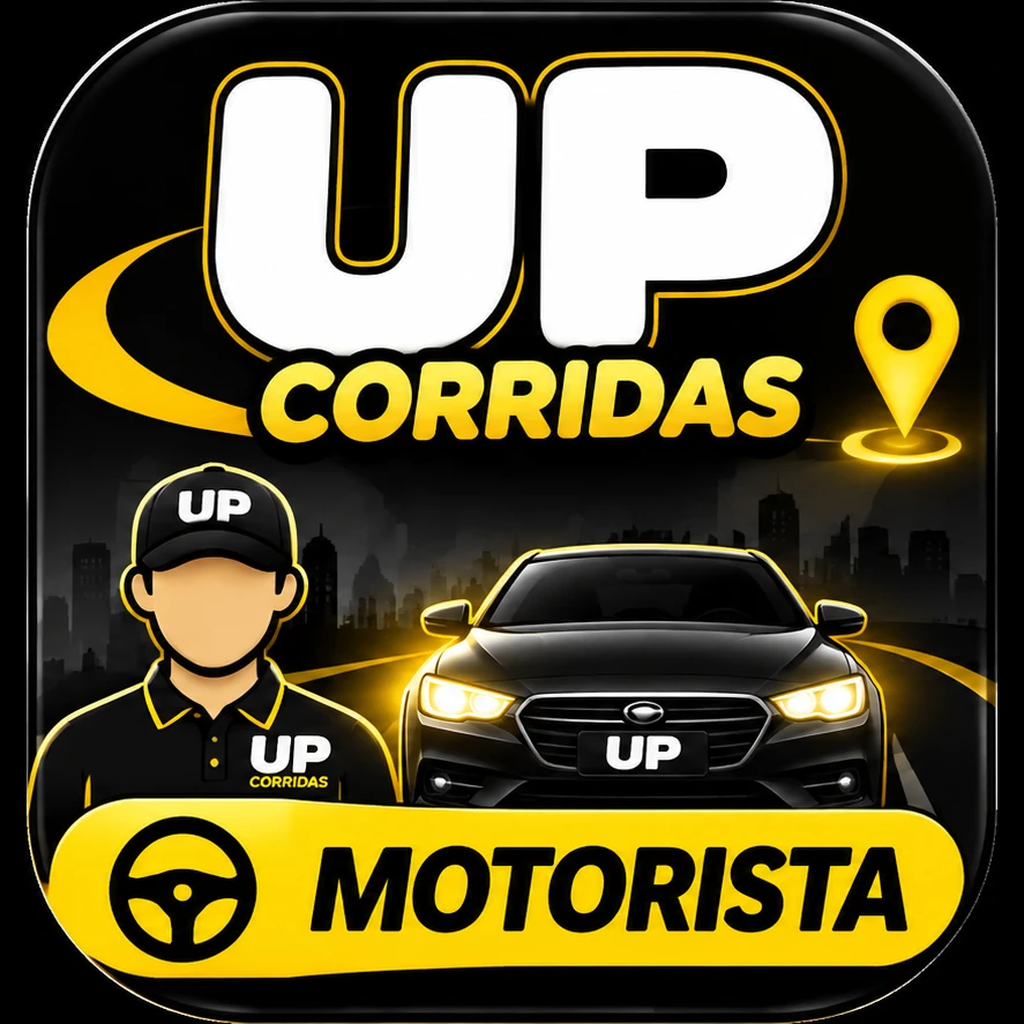
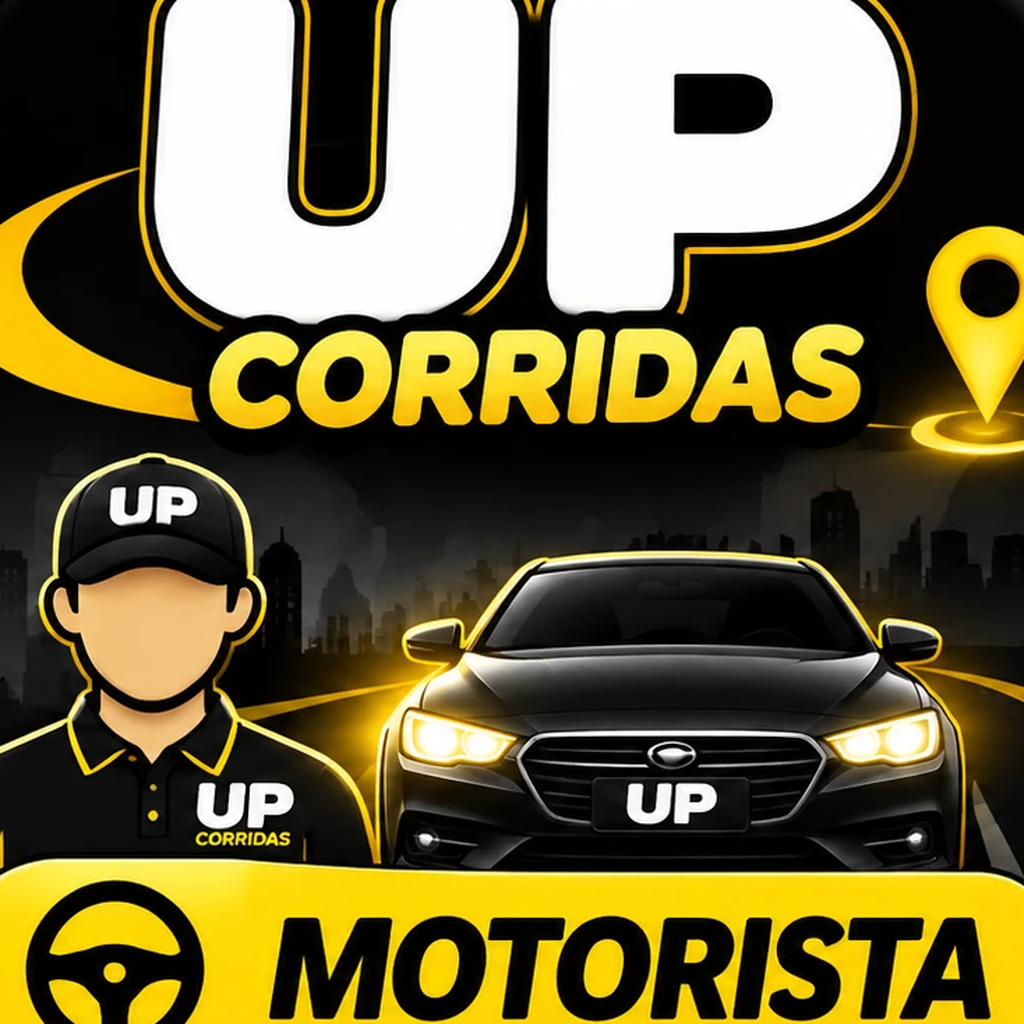
SOS gravado e distribuído, push de chamada de alta prioridade com serviço nativo, ícones sem margem, WebP nas fotos, testes painel→app e documentação

diff --git a/painel/test/apps-painel.test.ts b/painel/test/apps-painel.test.ts
@@ -432,3 +432,70 @@ test("fotos enviadas pelos apps viram WebP (qualidade 80, até 1600 px): foto de
   const m = listar(E.id, cadastroPorId("motoristas")!).find((x) => x.telefone === "11900000081")!;
   assert.equal(arquivoDoDocumento(E.id, m.id, "cnh")?.mime, "image/webp");
 });
+
+test("SOS: grava o alerta com posição, nome e telefone e avisa os motoristas por perto (não quem pediu nem quem está longe)", async () => {
+  const { alertas } = await import("../src/apps/despacho.ts");
+  const { emitir: _e } = await import("../src/apps/eventos.ts");
+  criar(E.id, cadastroPorId("motoristas")!, { nome: "Nina Pede", telefone: "11900000091", status: "Ativo", veiculo: "Hatch", placa: "NIN1A23" }, "teste");
+  criar(E.id, cadastroPorId("motoristas")!, { nome: "Otto Perto", telefone: "11900000092", status: "Ativo", veiculo: "Hatch", placa: "OTT1A23" }, "teste");
+  criar(E.id, cadastroPorId("motoristas")!, { nome: "Paulo Longe", telefone: "11900000093", status: "Ativo", veiculo: "Hatch", placa: "PAU1A23" }, "teste");
+  const tokN = await entrar("motorista", "11900000091"), tokO = await entrar("motorista", "11900000092"), tokL = await entrar("motorista", "11900000093");
+  await chamar("POST", `${API}/online`, { lat: -22.1, lng: -45.1 }, tokN);
+  await chamar("POST", `${API}/online`, { lat: -22.101, lng: -45.101 }, tokO);
+  await chamar("POST", `${API}/online`, { lat: -22.9, lng: -45.9 }, tokL);
+  const antes = alertas(E.id).length;
+  const r = await chamar("POST", `${API}/sos`, { lat: -22.1, lng: -45.1 }, tokN);
+  assert.equal(r.status, 200, JSON.stringify(r.corpo));
+  const todos = alertas(E.id);
+  assert.equal(todos.length, antes + 1);
+  const a = todos[todos.length - 1];
+  assert.equal(a.nome, "Nina Pede"); assert.equal(a.telefone, "11900000091"); assert.equal(a.papel, "motorista"); assert.equal(a.lat, -22.1);
+  assert.equal((await chamar("POST", `${API}/sos`, {}, undefined)).status, 401);
+});
+
+// ---------------------------------------------------------------------------------------------------------------------------------
+// "Mudou no painel, mudou no app": cada função do painel que afeta os apps, mudada com as mesmas funções do painel e conferida no app.
+// A tabela com o que foi testado e como está em docs/TESTE_PAINEL_APPS.md.
+
+test("painel → app: tarifa da categoria muda a estimativa; cupom criado/desativado aparece e some; documentos obrigatórios e motivos de cancelamento seguem o painel", async () => {
+  const { atualizar, listar } = await import("../src/cadastros/armazem.ts");
+  const { gerais, salvarGerais } = await import("../src/config/gerais.ts");
+  const tokP = await entrar("passageiro", "11988887001");
+  const consulta = `/estimativa?latEmbarque=-23.55&lngEmbarque=-46.63&latDestino=-23.6&lngDestino=-46.66&categoria=${encodeURIComponent("Econômico")}`;
+  const antes = (await chamar("GET", `${API}${consulta}`, undefined, tokP)).corpo;
+  assert.ok(antes.valor > 0, JSON.stringify(antes));
+  // 1) Tarifa: o valor do km sobe no painel -> a estimativa do app sobe.
+  const cat = listar(E.id, cadastroPorId("categorias")!).find((c) => c.nome === "Econômico")!;
+  atualizar(E.id, cadastroPorId("categorias")!, cat.id, { ...cat, valorKm: 4 }, "teste");
+  const depois = (await chamar("GET", `${API}${consulta}`, undefined, tokP)).corpo;
+  assert.ok(depois.valor > antes.valor, `estimativa subiu: ${antes.valor} -> ${depois.valor}`);
+  atualizar(E.id, cadastroPorId("categorias")!, cat.id, { ...cat, valorKm: 2 }, "teste");
+  // 2) Cupom: criado no painel aparece para o passageiro; desativado, some.
+  const c = criar(E.id, cadastroPorId("cupons")!, { codigo: "PAINEL10", tipoDesconto: "Percentual", valor: 10, ativo: true, automatico: false }, "teste");
+  assert.ok(((await chamar("GET", `${API}/cupons`, undefined, tokP)).corpo.cupons as Array<{ codigo: string }>).some((x) => x.codigo === "PAINEL10"), "cupom novo aparece");
+  atualizar(E.id, cadastroPorId("cupons")!, c.id, { ...c, ativo: false }, "teste");
+  assert.ok(!((await chamar("GET", `${API}/cupons`, undefined, tokP)).corpo.cupons as Array<{ codigo: string }>).some((x) => x.codigo === "PAINEL10"), "cupom desativado some");
+  // 3) Documentos obrigatórios e motivos de cancelamento vêm de Configurações > Gerais.
+  const g = gerais(E.id);
+  const docs = g.motorista.documentos.map((d) => ({ ...d, exigir: d.id === "cnh" ? true : false }));
+  salvarGerais(E.id, { ...g, motorista: { ...g.motorista, documentos: docs }, cancelamento: { ...g.cancelamento, motorista: { ...g.cancelamento.motorista, motivos: ["Motivo novo do painel", "Passageiro não apareceu"] } } });
+  const cfg = (await chamar("GET", `${API}/config`, undefined, tokP)).corpo;
+  assert.deepEqual(cfg.documentosExigidos.filter((d: any) => d.exigir).map((d: any) => d.id), ["cnh"]);
+  assert.ok(cfg.motivosCancelamento.motorista.includes("Motivo novo do painel"), "motivo novo do painel aparece no /config");
+  const tokM = await (async () => { criar(E.id, cadastroPorId("motoristas")!, { nome: "Rui Docs", telefone: "11900000101", status: "Ativo", veiculo: "Hatch", placa: "RUI1A23" }, "teste"); return entrar("motorista", "11900000101"); })();
+  assert.deepEqual((await chamar("GET", `${API}/motivos-cancelamento`, undefined, tokM)).corpo.motivos, cfg.motivosCancelamento.motorista, "o motorista vê exatamente a lista do painel");
+  assert.deepEqual((await chamar("GET", `${API}/documentos`, undefined, tokM)).corpo.obrigatorios.includes("cnh"), true);
+  salvarGerais(E.id, g); // devolve como estava
+});
+
+test("painel → app: motorista bloqueado no painel perde o acesso ao app; reativado, volta", async () => {
+  const { atualizar, listar } = await import("../src/cadastros/armazem.ts");
+  criar(E.id, cadastroPorId("motoristas")!, { nome: "Sol Suspensa", telefone: "11900000111", status: "Ativo", veiculo: "Hatch", placa: "SOL1A23" }, "teste");
+  const tokM = await entrar("motorista", "11900000111");
+  assert.equal((await chamar("GET", `${API}/estado`, undefined, tokM)).status, 200);
+  const m = listar(E.id, cadastroPorId("motoristas")!).find((x) => x.telefone === "11900000111")!;
+  atualizar(E.id, cadastroPorId("motoristas")!, m.id, { ...m, status: "Bloqueado" }, "teste");
+  assert.ok([401, 403].includes((await chamar("GET", `${API}/estado`, undefined, tokM)).status), "bloqueado: o app é barrado");
+  atualizar(E.id, cadastroPorId("motoristas")!, m.id, { ...m, status: "Ativo" }, "teste");
+  assert.equal((await chamar("GET", `${API}/estado`, undefined, tokM)).status, 200, "reativado: volta");
+});

diff --git a/painel/src/apps/despacho.ts b/painel/src/apps/despacho.ts
@@ -114,6 +114,8 @@ export const limparDespacho = () => estados.clear();
 
 const motoristas = (empresaId: string) => listar(empresaId, cadastroPorId("motoristas")!);
 const motorista = (empresaId: string, id: string) => motoristas(empresaId).find((m) => m.id === id);
+/** Nome e telefone de um motorista (para o alerta de emergência). */
+export const dadosDoMotorista = (empresaId: string, id: string) => { const m = motorista(empresaId, id); return { nome: String(m?.nome ?? ""), telefone: String(m?.telefone ?? "") }; };
 const passageiroAlvo = (c: CorridaPropria): Alvo => ({ papel: "passageiro", chave: c.passageiro.telefone });
 const motoristaAlvo = (id: string): Alvo => ({ papel: "motorista", chave: id });
 
@@ -415,7 +417,7 @@ export function despachar(empresaId: string) {
     emitir(empresaId, motoristaAlvo(melhor.id), "oferta", ofertaParaApp(empresaId, o));
     void avisar(empresaId, motoristaAlvo(melhor.id), {
       titulo: "Nova corrida", texto: `${c.embarque.texto}${o.distanciaKm != null ? ` · ${o.distanciaKm} km de você` : ""}`,
-      dados: { tipo: "oferta", ofertaId: o.id, corridaId: c.id }, canal: "corridas",
+      dados: { tipo: "oferta", ofertaId: o.id, corridaId: c.id }, canal: "corridas", somenteDados: true, // vira chamada em tela cheia pelo serviço nativo do APK
     });
     n++;
     }
@@ -845,15 +847,46 @@ export interface Alerta { id: string; corridaId: string; os: string; papel: Pape
 const arqAlertas = (empresaId: string) => arquivo(empresaId, "alertas.json");
 export const alertas = (empresaId: string) => ler<Alerta[]>(arqAlertas(empresaId), []);
 
-export function registrarSos(empresaId: string, c: CorridaPropria, papel: PapelApp, lat?: number, lng?: number): Alerta {
+/** Raio (km) em que os outros motoristas online recebem o alerta de emergência. */
+export const RAIO_SOS_KM = 5;
+
+/**
+ * Pedido de ajuda (botão de pânico). Grava o alerta (OS, posição, quem é e o telefone) para o painel e avisa na hora os motoristas online
+ * por perto (tempo real + push de alta prioridade). `c` é a corrida, quando há; o pedido de ajuda do mapa (sem corrida) passa `null`.
+ */
+export function registrarSos(empresaId: string, c: CorridaPropria | null, papel: PapelApp, lat?: number, lng?: number, quem?: { id: string; nome: string; telefone: string }): Alerta {
   const a: Alerta = {
-    id: crypto.randomUUID(), corridaId: c.id, os: c.os, papel,
-    nome: papel === "passageiro" ? c.passageiro.nome : c.motorista, telefone: papel === "passageiro" ? c.passageiro.telefone : c.telefoneMotorista,
+    id: crypto.randomUUID(), corridaId: c?.id ?? "", os: c?.os ?? "", papel,
+    nome: quem?.nome ?? (c ? (papel === "passageiro" ? c.passageiro.nome : c.motorista) : ""), telefone: quem?.telefone ?? (c ? (papel === "passageiro" ? c.passageiro.telefone : c.telefoneMotorista) : ""),
     lat: lat ?? null, lng: lng ?? null, em: new Date().toISOString(), resolvido: false, resolvidoPor: "",
   };
   gravar(arqAlertas(empresaId), [...alertas(empresaId).slice(-999), a]);
-  console.warn(`[apps] SOS na empresa ${empresaId}, OS ${c.os} (${papel})`);
+  console.warn(`[apps] SOS na empresa ${empresaId}, OS ${a.os || "—"} (${papel})`);
+  void distribuirSos(empresaId, a, quem?.id);
   return a;
+}
+
+/** Avisa os motoristas online dentro de RAIO_SOS_KM (menos quem pediu) e, quando a corrida tem motorista, ele também. Nunca lança erro. */
+async function distribuirSos(empresaId: string, a: Alerta, excluirId?: string) {
+  try {
+    const e = estado(empresaId);
+    const c = a.corridaId ? listarProprias(empresaId).find((x) => x.id === a.corridaId) : undefined;
+    const alvos = new Map<string, number | null>();
+    for (const [id, p] of e.online) {
+      if (id === excluirId) continue;
+      const km = a.lat != null && a.lng != null ? linhaReta({ lat: p.lat, lng: p.lng }, { lat: a.lat, lng: a.lng }) : null;
+      if (km != null && km <= RAIO_SOS_KM) alvos.set(id, arred(km, 1));
+    }
+    if (c?.motoristaId && c.motoristaId !== excluirId && !alvos.has(c.motoristaId)) alvos.set(c.motoristaId, null);
+    for (const [id, km] of alvos) {
+      const dados = { id: a.id, nome: a.nome, papel: a.papel, os: a.os, lat: a.lat, lng: a.lng, km };
+      emitir(empresaId, motoristaAlvo(id), "sos", dados);
+      void avisar(empresaId, motoristaAlvo(id), {
+        titulo: "ALERTA DE EMERGÊNCIA", texto: `${a.nome || "Um colega"} pediu ajuda${km != null ? ` a ${km.toString().replace(".", ",")} km de você` : ""}. Se puder, ajude e avise a central.`,
+        dados: { tipo: "sos", alertaId: a.id }, canal: "corridas",
+      });
+    }
+  } catch (err) { console.error("[apps] distribuir SOS:", err instanceof Error ? err.message : err); }
 }
 
 export function resolverAlerta(empresaId: string, id: string, por: string) {

diff --git a/painel/src/apps/push.ts b/painel/src/apps/push.ts
@@ -72,7 +72,14 @@ async function tokenDeAcesso(conta: ContaServico): Promise<string> {
 
 // ------------------------------------------------------------------ envio
 
-export interface Aviso { titulo: string; texto: string; dados?: Record<string, string>; canal?: "corridas" | "chat" | "geral" | "chegada" }
+export interface Aviso {
+  titulo: string; texto: string; dados?: Record<string, string>; canal?: "corridas" | "chat" | "geral" | "chegada";
+  /**
+   * Mensagem só de dados, com prioridade alta (chamada de corrida): chega mesmo com o app fechado ou em repouso e o aplicativo (serviço nativo)
+   * mostra a chamada em tela cheia, com som e a tela acordando. Sem isto o Android só mostra uma notificação comum.
+   */
+  somenteDados?: boolean;
+}
 
 /** Manda push para todos os aparelhos da pessoa. Nunca lança erro: push é um extra. Devolve quantos foram aceitos. */
 export async function avisar(empresaId: string, alvo: Alvo, aviso: Aviso): Promise<number> {
@@ -88,9 +95,13 @@ export async function avisar(empresaId: string, alvo: Alvo, aviso: Aviso): Promi
         method: "POST", headers: { authorization: `Bearer ${acesso}`, "content-type": "application/json" },
         body: JSON.stringify({ message: {
           token: t.token,
-          notification: { title: aviso.titulo.slice(0, 80), body: aviso.texto.slice(0, 200) },
-          data: aviso.dados ?? {},
-          android: { priority: "high", notification: { channel_id: aviso.canal ?? "geral", sound: "default" } },
+          ...(aviso.somenteDados
+            ? { data: { ...(aviso.dados ?? {}), titulo: aviso.titulo.slice(0, 80), texto: aviso.texto.slice(0, 200) }, android: { priority: "high", ttl: "45s" } }
+            : {
+              notification: { title: aviso.titulo.slice(0, 80), body: aviso.texto.slice(0, 200) },
+              data: aviso.dados ?? {},
+              android: { priority: "high", notification: { channel_id: aviso.canal ?? "geral", sound: "default" } },
+            }),
         } }),
       });
       if (r.ok) ok++;

diff --git a/painel/src/apps/web/motorista/App.tsx b/painel/src/apps/web/motorista/App.tsx
@@ -89,6 +89,7 @@ function Logado({ marca, sair }: { marca: MarcaApp; sair: () => void }) {
   // Tempo real.
   useEffect(() => tempoReal((tipo, d) => {
     if (tipo === "oferta") { if (document.visibilityState === "hidden") void permissoesNativas.ofertaTelaCheia("Nova corrida", "Toque para ver a chamada"); setOferta(d as Oferta); setErroOferta(""); if (!ajustes.insistente) { tocarAlerta(4); } if (ajustes.vibrar) vibrar([400, 200, 400, 200, 400]); }
+    else if (tipo === "sos") { tocarAlerta(3, "alerta"); vibrar([500, 200, 500, 200, 500]); setAviso(`ALERTA DE EMERGÊNCIA: ${String(d.nome || "um colega")} pediu ajuda${d.km != null ? ` a ${String(d.km).replace(".", ",")} km de você` : ""}.`); }
     else if (tipo === "oferta_encerrada") { setOferta((o) => (o?.id === d.id ? null : o)); pararSons(); if (d.motivo) setAviso(String(d.motivo)); }
     else if (tipo === "corrida") {
       const c = d as Corrida;
@@ -159,7 +160,7 @@ function Logado({ marca, sair }: { marca: MarcaApp; sair: () => void }) {
   };
   const pedirAjuda = async () => {
     setDialogo("");
-    try { await api("/suporte", { corpo: { texto: `ALERTA: o motorista pediu ajuda${posicao ? ` (posição ${posicao.lat.toFixed(5)}, ${posicao.lng.toFixed(5)})` : ""}.` } }); setAviso("A central recebeu o seu alerta e vai falar com você. Se for grave, ligue 190."); } catch (e) { setErro(mensagemDeErro(e)); }
+    try { await api("/sos", { corpo: posicao ?? {} }); setAviso("Alerta enviado: a central e os motoristas por perto foram avisados. Se for grave, ligue 190."); } catch (e) { setErro(mensagemDeErro(e)); }
   };
   const ficarOffline = async () => { setDialogo(""); setFolhaAberta(false); await api("/offline", { corpo: {} }).catch(() => undefined); setOnline(false); };
   const sairDaConta = async () => { await api("/sair", { corpo: {} }).catch(() => undefined); setOnline(false); window.dispatchEvent(new Event("app-sair")); sair(); };

diff --git a/painel/src/apps/rotas.ts b/painel/src/apps/rotas.ts
@@ -390,7 +390,15 @@ r.post("/corridas/:id/status", so("motorista"), ok(async (req, res) => {
 r.post("/corridas/:id/sos", ok((req, res) => {
   const { empresaId, sessao } = ctx(req);
   const c = P.corridaDoApp(empresaId, req.params.id, sessao.papel, sessao.chave);
-  res.json({ alerta: P.registrarSos(empresaId, c, sessao.papel, num(req.body?.lat), num(req.body?.lng)) });
+  const quem = sessao.papel === "motorista" ? { id: sessao.chave, nome: c.motorista, telefone: c.telefoneMotorista } : undefined;
+  res.json({ alerta: P.registrarSos(empresaId, c, sessao.papel, num(req.body?.lat), num(req.body?.lng), quem) });
+}));
+
+/** Pedido de ajuda sem corrida (botão vermelho do mapa do motorista): grava o alerta e avisa quem está por perto. */
+r.post("/sos", so("motorista"), ok((req, res) => {
+  const { empresaId, sessao } = ctx(req);
+  const eu = P.dadosDoMotorista(empresaId, sessao.chave);
+  res.json({ alerta: P.registrarSos(empresaId, null, "motorista", num(req.body?.lat), num(req.body?.lng), { id: sessao.chave, nome: eu.nome, telefone: eu.telefone }) });
 }));
 
 // ------------------------------------------------------------------ chat

diff --git a/painel/test/apps-v2.test.ts b/painel/test/apps-v2.test.ts
@@ -181,7 +181,7 @@ test("motorista novo: cadastro em análise, completa os passos, só fica online 
 
   // Passo 2: foto do rosto (e ela só abre para a própria pessoa).
   assert.match((await chamar("POST", `${API}/foto`, new Uint8Array([1, 2, 3, 4]), tokNovo, { "content-type": "image/png" })).corpo.erro, /não é uma foto/);
-  assert.match((await chamar("POST", `${API}/foto`, PNG(), tokNovo, { "content-type": "image/gif" })).corpo.erro, /JPG ou PNG/);
+  assert.match((await chamar("POST", `${API}/foto`, PNG(), tokNovo, { "content-type": "image/gif" })).corpo.erro, /JPG, PNG ou WEBP/);
   const f = await chamar("POST", `${API}/foto`, PNG(), tokNovo, { "content-type": "image/png" });
   assert.equal(f.status, 200); assert.equal(f.corpo.foto, `${API}/foto/motorista/${idNovo}`);
   assert.equal((await chamar("GET", f.corpo.foto, undefined, tokNovo)).status, 200);

diff --git a/scripts/nativo/OfertaTelaCheia.java b/scripts/nativo/OfertaTelaCheia.java
@@ -1,0 +1,50 @@
+package __PACOTE__;
+
+import android.app.Notification;
+import android.app.NotificationChannel;
+import android.app.NotificationManager;
+import android.app.PendingIntent;
+import android.content.Context;
+import android.content.Intent;
+import android.os.Build;
+import android.os.PowerManager;
+import android.provider.Settings;
+
+/**
+ * Chamada de corrida (ou alerta) por cima de tudo: acorda a tela, sobe uma notificação de chamada com tela cheia (full-screen intent)
+ * e, com "Exibir sobre outros apps" liberado, traz o app para a frente. Usado pelo app aberto/minimizado (plugin Flutuante) e pelo
+ * serviço de push (OfertaMessagingService), que funciona com o app fechado.
+ */
+public final class OfertaTelaCheia {
+    private OfertaTelaCheia() { }
+
+    public static void mostrar(Context c, String titulo, String texto) {
+        try {
+            PowerManager pm = (PowerManager) c.getSystemService(Context.POWER_SERVICE);
+            if (pm != null) {
+                @SuppressWarnings("deprecation")
+                PowerManager.WakeLock w = pm.newWakeLock(PowerManager.SCREEN_BRIGHT_WAKE_LOCK | PowerManager.ACQUIRE_CAUSES_WAKEUP | PowerManager.ON_AFTER_RELEASE, c.getPackageName() + ":oferta");
+                w.acquire(15000);
+            }
+            Intent abrir = c.getPackageManager().getLaunchIntentForPackage(c.getPackageName());
+            if (abrir == null) return;
+            abrir.addFlags(Intent.FLAG_ACTIVITY_NEW_TASK | Intent.FLAG_ACTIVITY_SINGLE_TOP | Intent.FLAG_ACTIVITY_REORDER_TO_FRONT);
+            PendingIntent pi = PendingIntent.getActivity(c, 7, abrir, PendingIntent.FLAG_IMMUTABLE | PendingIntent.FLAG_UPDATE_CURRENT);
+            NotificationManager nm = (NotificationManager) c.getSystemService(Context.NOTIFICATION_SERVICE);
+            if (Build.VERSION.SDK_INT >= Build.VERSION_CODES.O && nm.getNotificationChannel("oferta") == null) {
+                NotificationChannel canal = new NotificationChannel("oferta", "Chamada de corrida", NotificationManager.IMPORTANCE_HIGH);
+                canal.setLockscreenVisibility(Notification.VISIBILITY_PUBLIC);
+                canal.enableVibration(true);
+                nm.createNotificationChannel(canal);
+            }
+            Notification.Builder b = Build.VERSION.SDK_INT >= Build.VERSION_CODES.O ? new Notification.Builder(c, "oferta") : new Notification.Builder(c);
+            b.setContentTitle(titulo).setContentText(texto).setSmallIcon(c.getApplicationInfo().icon)
+                .setCategory(Notification.CATEGORY_CALL).setPriority(Notification.PRIORITY_MAX)
+                .setAutoCancel(true).setContentIntent(pi).setFullScreenIntent(pi, true).setVisibility(Notification.VISIBILITY_PUBLIC);
+            nm.notify(4712, b.build());
+            if (Settings.canDrawOverlays(c)) c.startActivity(abrir); // com "exibir sobre outros apps" o sistema deixa abrir direto
+        } catch (Exception e) {
+            // o sistema recusou: a notificação continua avisando
+        }
+    }
+}

diff --git a/scripts/nativo/FlutuantePlugin.java b/scripts/nativo/FlutuantePlugin.java
@@ -212,37 +212,7 @@ public class FlutuantePlugin extends Plugin {
      */
     @PluginMethod
     public void ofertaTelaCheia(PluginCall call) {
-        Context c = getContext();
-        String titulo = call.getString("titulo", "Nova corrida");
-        String texto = call.getString("texto", "Toque para ver a chamada");
-        try {
-            PowerManager pm = (PowerManager) c.getSystemService(Context.POWER_SERVICE);
-            if (pm != null) {
-                @SuppressWarnings("deprecation")
-                PowerManager.WakeLock w = pm.newWakeLock(PowerManager.SCREEN_BRIGHT_WAKE_LOCK | PowerManager.ACQUIRE_CAUSES_WAKEUP | PowerManager.ON_AFTER_RELEASE, c.getPackageName() + ":oferta");
-                w.acquire(15000);
-            }
-            Intent abrir = c.getPackageManager().getLaunchIntentForPackage(c.getPackageName());
-            if (abrir != null) {
-                abrir.addFlags(Intent.FLAG_ACTIVITY_NEW_TASK | Intent.FLAG_ACTIVITY_SINGLE_TOP | Intent.FLAG_ACTIVITY_REORDER_TO_FRONT);
-                PendingIntent pi = PendingIntent.getActivity(c, 7, abrir, PendingIntent.FLAG_IMMUTABLE | PendingIntent.FLAG_UPDATE_CURRENT);
-                NotificationManager nm = (NotificationManager) c.getSystemService(Context.NOTIFICATION_SERVICE);
-                if (Build.VERSION.SDK_INT >= Build.VERSION_CODES.O && nm.getNotificationChannel("oferta") == null) {
-                    NotificationChannel canal = new NotificationChannel("oferta", "Chamada de corrida", NotificationManager.IMPORTANCE_HIGH);
-                    canal.setLockscreenVisibility(Notification.VISIBILITY_PUBLIC);
-                    canal.enableVibration(true);
-                    nm.createNotificationChannel(canal);
-                }
-                Notification.Builder b = Build.VERSION.SDK_INT >= Build.VERSION_CODES.O ? new Notification.Builder(c, "oferta") : new Notification.Builder(c);
-                b.setContentTitle(titulo).setContentText(texto).setSmallIcon(c.getApplicationInfo().icon)
-                    .setCategory(Notification.CATEGORY_CALL).setPriority(Notification.PRIORITY_MAX)
-                    .setAutoCancel(true).setContentIntent(pi).setFullScreenIntent(pi, true).setVisibility(Notification.VISIBILITY_PUBLIC);
-                nm.notify(4712, b.build());
-                if (Settings.canDrawOverlays(c)) c.startActivity(abrir); // com "exibir sobre outros apps" o sistema deixa abrir direto, por cima do que estiver aberto
-            }
-        } catch (Exception e) {
-            // o sistema recusou: a notificação (ou o próprio app aberto) continua avisando
-        }
+        OfertaTelaCheia.mostrar(getContext(), call.getString("titulo", "Nova corrida"), call.getString("texto", "Toque para ver a chamada"));
         call.resolve();
     }
 

diff --git a/scripts/nativo/OfertaMessagingService.java b/scripts/nativo/OfertaMessagingService.java
@@ -1,0 +1,35 @@
+package __PACOTE__;
+
+import android.content.Context;
+import android.content.SharedPreferences;
+
+import com.google.firebase.messaging.FirebaseMessagingService;
+import com.google.firebase.messaging.RemoteMessage;
+
+import java.util.Map;
+
+/**
+ * Recebe o push de ALTA PRIORIDADE só de dados mesmo com o app fechado ou em repouso (Doze) e transforma em chamada de corrida em tela
+ * cheia (OfertaTelaCheia). Só entra no APK quando a empresa tem Firebase configurado (build-app-proprio.mjs).
+ * Mensagens de outros tipos (notificação comum) são mostradas pelo próprio sistema quando o app está fechado.
+ */
+public class OfertaMessagingService extends FirebaseMessagingService {
+    @Override
+    public void onMessageReceived(RemoteMessage mensagem) {
+        Map<String, String> d = mensagem.getData();
+        if (d == null) return;
+        String tipo = d.get("tipo");
+        if ("oferta".equals(tipo) || "sos".equals(tipo)) {
+            String titulo = d.get("titulo");
+            String texto = d.get("texto");
+            OfertaTelaCheia.mostrar(getApplicationContext(), titulo == null ? "Nova corrida" : titulo, texto == null ? "Toque para ver a chamada" : texto);
+        }
+    }
+
+    /** Token novo do aparelho: guarda; o app registra de novo no servidor na próxima abertura. */
+    @Override
+    public void onNewToken(String token) {
+        SharedPreferences sp = getSharedPreferences("flutuante", Context.MODE_PRIVATE);
+        sp.edit().putString("tokenNovo", token).apply();
+    }
+}

diff --git a/docs/TESTE_PAINEL_APPS.md b/docs/TESTE_PAINEL_APPS.md
@@ -1,0 +1,36 @@
+# Funções do painel que afetam os apps: o que foi testado (20/11/2026)
+
+Cada linha: o que se muda no painel, o efeito esperado no app, como foi testado e o resultado. "Teste automático" = chama as mesmas funções que o painel usa e confere a resposta que o app recebe (arquivos em `painel/test/`). **Nada disto foi conferido abrindo o painel e o app lado a lado num aparelho.** As linhas "não testado" ficam como pendência declarada, não como aprovadas.
+
+| Função do painel | Efeito esperado no app | Testado como | Resultado |
+|---|---|---|---|
+| Categorias: tarifa (valor do km) | A estimativa do passageiro muda na hora | `apps-painel.test.ts` "tarifa da categoria muda a estimativa" (km de R$ 2 para R$ 4 e volta) | Passou |
+| Categorias: tarifa dinâmica | Estimativa com acréscimo | Não testado de ponta a ponta (existe `dinamica-campos.test.ts`, só do cadastro) | Pendente |
+| Taxas da central (motorista e passageiro) | Extrato do motorista lista cada taxa; detalhe do passageiro mostra a taxa e o total pago | `apps-painel.test.ts` "taxas da central" (inclui mudar a taxa e ver o extrato mudar; bruto − taxas = líquido) | Passou |
+| Despacho: proximidade, primeiro a aceitar (geral), fila virtual, limite de motoristas, tentativas, pendência, vários carros | Quem recebe a chamada, quando e quantos | `apps-despacho.test.ts` (10 testes) e `despacho-varios-carros.test.ts` | Passou |
+| Despacho: raio e tempo de tela | Distância máxima da chamada e segundos para aceitar | Coberto parcialmente em `apps-despacho.test.ts` (variáveis de teste); o campo do painel em si não foi mudado | Parcial |
+| Documentos obrigatórios (Gerais › Motorista) | App lista os obrigatórios, bloqueia a conclusão do cadastro sem eles | `apps-painel.test.ts` (lista do `/config` e `/documentos` seguem o painel) e os testes de cadastro da sessão do painel (`/cadastro/concluir`) | Passou |
+| Formas de pagamento | Lista de pagamentos oferecida ao passageiro | Não testado (o `/config` expõe `formasDePagamento`; falta mudar no painel e conferir) | Pendente |
+| Cupons | Cupom criado aparece para o passageiro; desativado, some | `apps-painel.test.ts` "cupom criado/desativado" | Passou |
+| Passe Livre | Passageiro/motorista com passe sem taxa | Não testado | Pendente |
+| Carteira: recarga | Depósito confirmado pela central entra no saldo e no extrato do app e aparece em Recargas | `apps-painel.test.ts` "recarga de saldo do motorista" | Passou |
+| Carteira: saque | Pedido do app aparece para a central; resolvido, o app mostra a situação | `apps-extras.test.ts` (saques) | Passou (teste da fase anterior) |
+| Personalização (cores, marca, veículo no mapa, recursos, ícone do topo) | Apps leem `/personalizacao` e aplicam sem APK novo | `personalizacao-app.test.ts` (servidor, sessão do painel). Lado do app: leitura ao entrar, a cada 60 s e ao voltar; o motorista usa cor, nome e logo do topo | Servidor: passou. Visual no app: visto só no navegador (início do passageiro e do motorista) |
+| Termos de uso | Aparecem conforme o modo configurado | `apps-v2.test.ts` (termos) | Passou (teste da fase anterior) |
+| Avisos e notificações, CRM push | Aviso chega ao app com o app aberto (tempo real) e, com Firebase, com o app fechado | Tempo real: `apps-despacho/extras`. Push: só com Firebase da empresa (hoje **não configurado**: o APK sai sem o plugin de push) | Push real: não testável sem Firebase |
+| Bloqueio de motorista (status Bloqueado) e reativação | O app é barrado e volta ao reativar | `apps-painel.test.ts` "motorista bloqueado no painel perde o acesso" | Passou |
+| Punições | Motorista punido não recebe corrida | `apps-extras.test.ts` (bloqueios) | Passou (fase anterior); não repeti |
+| Áreas e cerca eletrônica | Corrida fora da área / motorista fora da cerca | Não testado | Pendente |
+| Agendamento | Corrida agendada só é oferecida perto da hora | `apps-extras.test.ts` | Passou (fase anterior) |
+| Motivos de cancelamento | Listas de motivos do app vêm do painel; "passageiro não apareceu" cancela de vez | `apps-painel.test.ts` (lista igual à do painel; no-show) | Passou |
+| Preferências de corrida (exigências) | Opções que o passageiro pede e o motorista filtra | `apps-extras.test.ts`, `apps-v2.test.ts` | Passou (fase anterior) |
+| SOS | Alerta gravado com posição, nome e telefone, e aviso aos motoristas por perto | `apps-painel.test.ts` "SOS" (gravação e permissão); aviso em tempo real aos vizinhos: não conferi a chegada ao outro app | Gravação: passou. Entrega aos vizinhos e push: pendente |
+| Gravação das corridas | Motorista envia, só a central abre, retenção automática | `apps-painel.test.ts` "gravação da corrida" | Passou |
+| Fotos e documentos em WebP | Tudo que entra pelos apps e pelo painel fica em WebP (qualidade 80, até 1600 px) | `apps-painel.test.ts` "fotos enviadas pelos apps viram WebP" (perfil e CNH) | Passou. Foto pelo painel e do chat: mesma função, sem teste próprio |
+
+## O que o dono precisa fazer para o push funcionar (CRM, alerta e chamada com o app fechado)
+
+1. Criar um projeto no Firebase (console.firebase.google.com) e adicionar dois apps Android com os pacotes `br.com.upcorridas.motorista` e o do passageiro (campo `app.passageiro.pacote` do `brand.json`).
+2. Baixar o `google-services.json` de cada app para `tenants/up-corridas/firebase/google-services-motorista.json` e `google-services-passageiro.json` (fora do Git).
+3. Em Configurações do projeto › Contas de serviço, gerar uma chave privada e salvar como `/dados/empresas/up-corridas/apps/firebase-servico.json` no servidor (ou na variável `FIREBASE_SERVICO_UP_CORRIDAS`).
+4. Gerar os APKs de novo. O build já inclui o serviço nativo que mostra a chamada em tela cheia a partir do push de alta prioridade (compilado e validado com um Firebase de teste; nunca rodou com push real).
